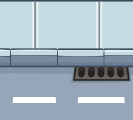
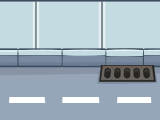
dev: road and pavements

diff --git a/Assets/_Project/Scripts/World/Street/StreetComponent.cs b/Assets/_Project/Scripts/World/Street/StreetComponent.cs
@@ -1,10 +1,19 @@
 using UnityEngine;
 using CityRush.World.Street.Data;
+using CityRush.World.Street.Generation;
 
 namespace CityRush.World.Street
 {
     public class StreetComponent : MonoBehaviour
     {
+        [Header("Road")]
+        [SerializeField] private GameObject[] roadTiles;
+        [Header("Pavement")]
+        [SerializeField] private GameObject[] pavementTiles;
+
+        private const float TILE_WIDTH = 160f / 48f;
+        private const float ROAD_HEIGHT = 253f / 48f;
+
         [TextArea(5, 20)]
         [SerializeField] private string streetJson;
 
@@ -22,12 +31,50 @@ namespace CityRush.World.Street
         {
             streetJson = json;
             ParseStreetData();
+            BuildRoad(streetData);
+            BuildPavement(streetData);
             AssignBuildings();
         }
 
         private void ParseStreetData()
         {
             streetData = JsonUtility.FromJson<StreetData>(streetJson);
+        }
+        
+        private float GetRoadBaseY()
+        {
+            var cam = Camera.main;
+            return cam.transform.position.y - cam.orthographicSize;
+        }
+
+        private void BuildRoad(StreetData data)
+        {
+            if (data == null || data.street == null || data.street.road == null)
+                return;
+            var builder = new RoadBuilder(
+                transform,
+                roadTiles,
+                TILE_WIDTH,
+                GetRoadBaseY()
+            );
+            builder.Build(data.street.road);
+        }
+
+        private void BuildPavement(StreetData data)
+        {
+            if (data == null || data.street == null || data.street.pavements == null)
+                return;
+
+            float pavementBaseY = GetRoadBaseY() + ROAD_HEIGHT;
+
+            var builder = new PavementBuilder(
+                transform,
+                pavementTiles,
+                TILE_WIDTH,
+                pavementBaseY
+            );
+
+            builder.Build(data.street.pavements);
         }
 
         private void AssignBuildings()

diff --git a/Assets/_Project/Scripts/World/Street/Generation/PavementBuilder.cs b/Assets/_Project/Scripts/World/Street/Generation/PavementBuilder.cs
@@ -1,0 +1,60 @@
+using UnityEngine;
+using CityRush.World.Street.Data;
+
+namespace CityRush.World.Street.Generation
+{
+    public class PavementBuilder
+    {
+        private readonly Transform _parent;
+        private readonly GameObject[] _tiles;
+        private readonly float _tileWidth;
+        private readonly float _y;
+
+        public PavementBuilder(
+            Transform parent,
+            GameObject[] tiles,
+            float tileWidth,
+            float yPosition)
+        {
+            _parent = parent;
+            _tiles = tiles;
+            _tileWidth = tileWidth;
+            _y = yPosition;
+        }
+
+        public void Build(StreetPatternData patternData)
+        {
+            if (patternData == null || patternData.pattern == null)
+                return;
+
+            int repeat = Mathf.Max(1, patternData.repeat);
+            int index = 0;
+
+            for (int r = 0; r < repeat; r++)
+            {
+                for (int i = 0; i < patternData.pattern.Length; i++)
+                {
+                    int tileIndex = patternData.pattern[i];
+
+                    if (tileIndex < 0 || tileIndex >= _tiles.Length)
+                        continue;
+
+                    Vector3 position = new Vector3(
+                        index * _tileWidth,
+                        _y,
+                        0f
+                    );
+
+                    Object.Instantiate(
+                        _tiles[tileIndex],
+                        position,
+                        Quaternion.identity,
+                        _parent
+                    );
+
+                    index++;
+                }
+            }
+        }
+    }
+}
